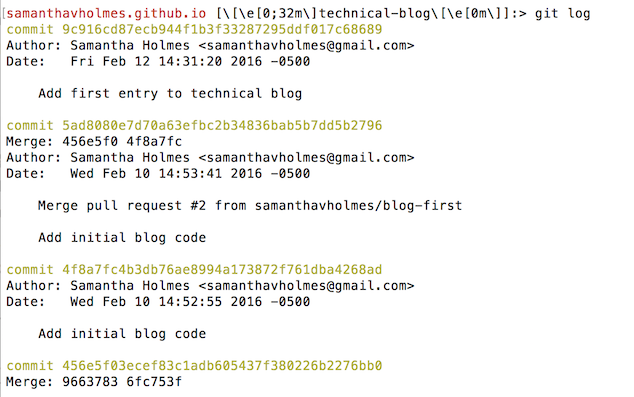
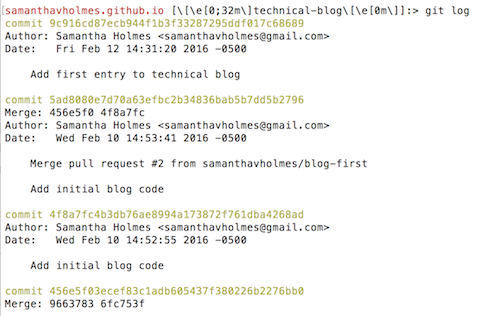
Update size of git log image

diff --git a/blog/git.html b/blog/git.html
@@ -16,7 +16,7 @@
 
       </p>
       <p>
-          <b> How does git help you keep track of changes?</b> Git is, arguably, the best version control system around. It allows programmers to make changes to files through a system called "branching" without making changes to the "master branch", which should always be fully-functional code. Git allows you to save different versions of your code every time a change is made. You can look at your "git log" to see all the changes that were "committed" (saved) and revert back to any earlier version. Here is an example of a git log: <br>
+          <b> How does git help you keep track of changes?</b> Git is, arguably, the best version control system around. It allows programmers to make changes to files through a system called "branching" without making changes to the "master branch", which should always be fully-functional code. Git allows you to save different versions of your code every time a change is made. You can look at your "git log" to see all the changes that were "committed" (saved) and revert back to any earlier version. <br> Here is an example of a git log: <br>
           <img src="imgs/git_log.png" alt="Example git log" />
       </p>
       <p>
